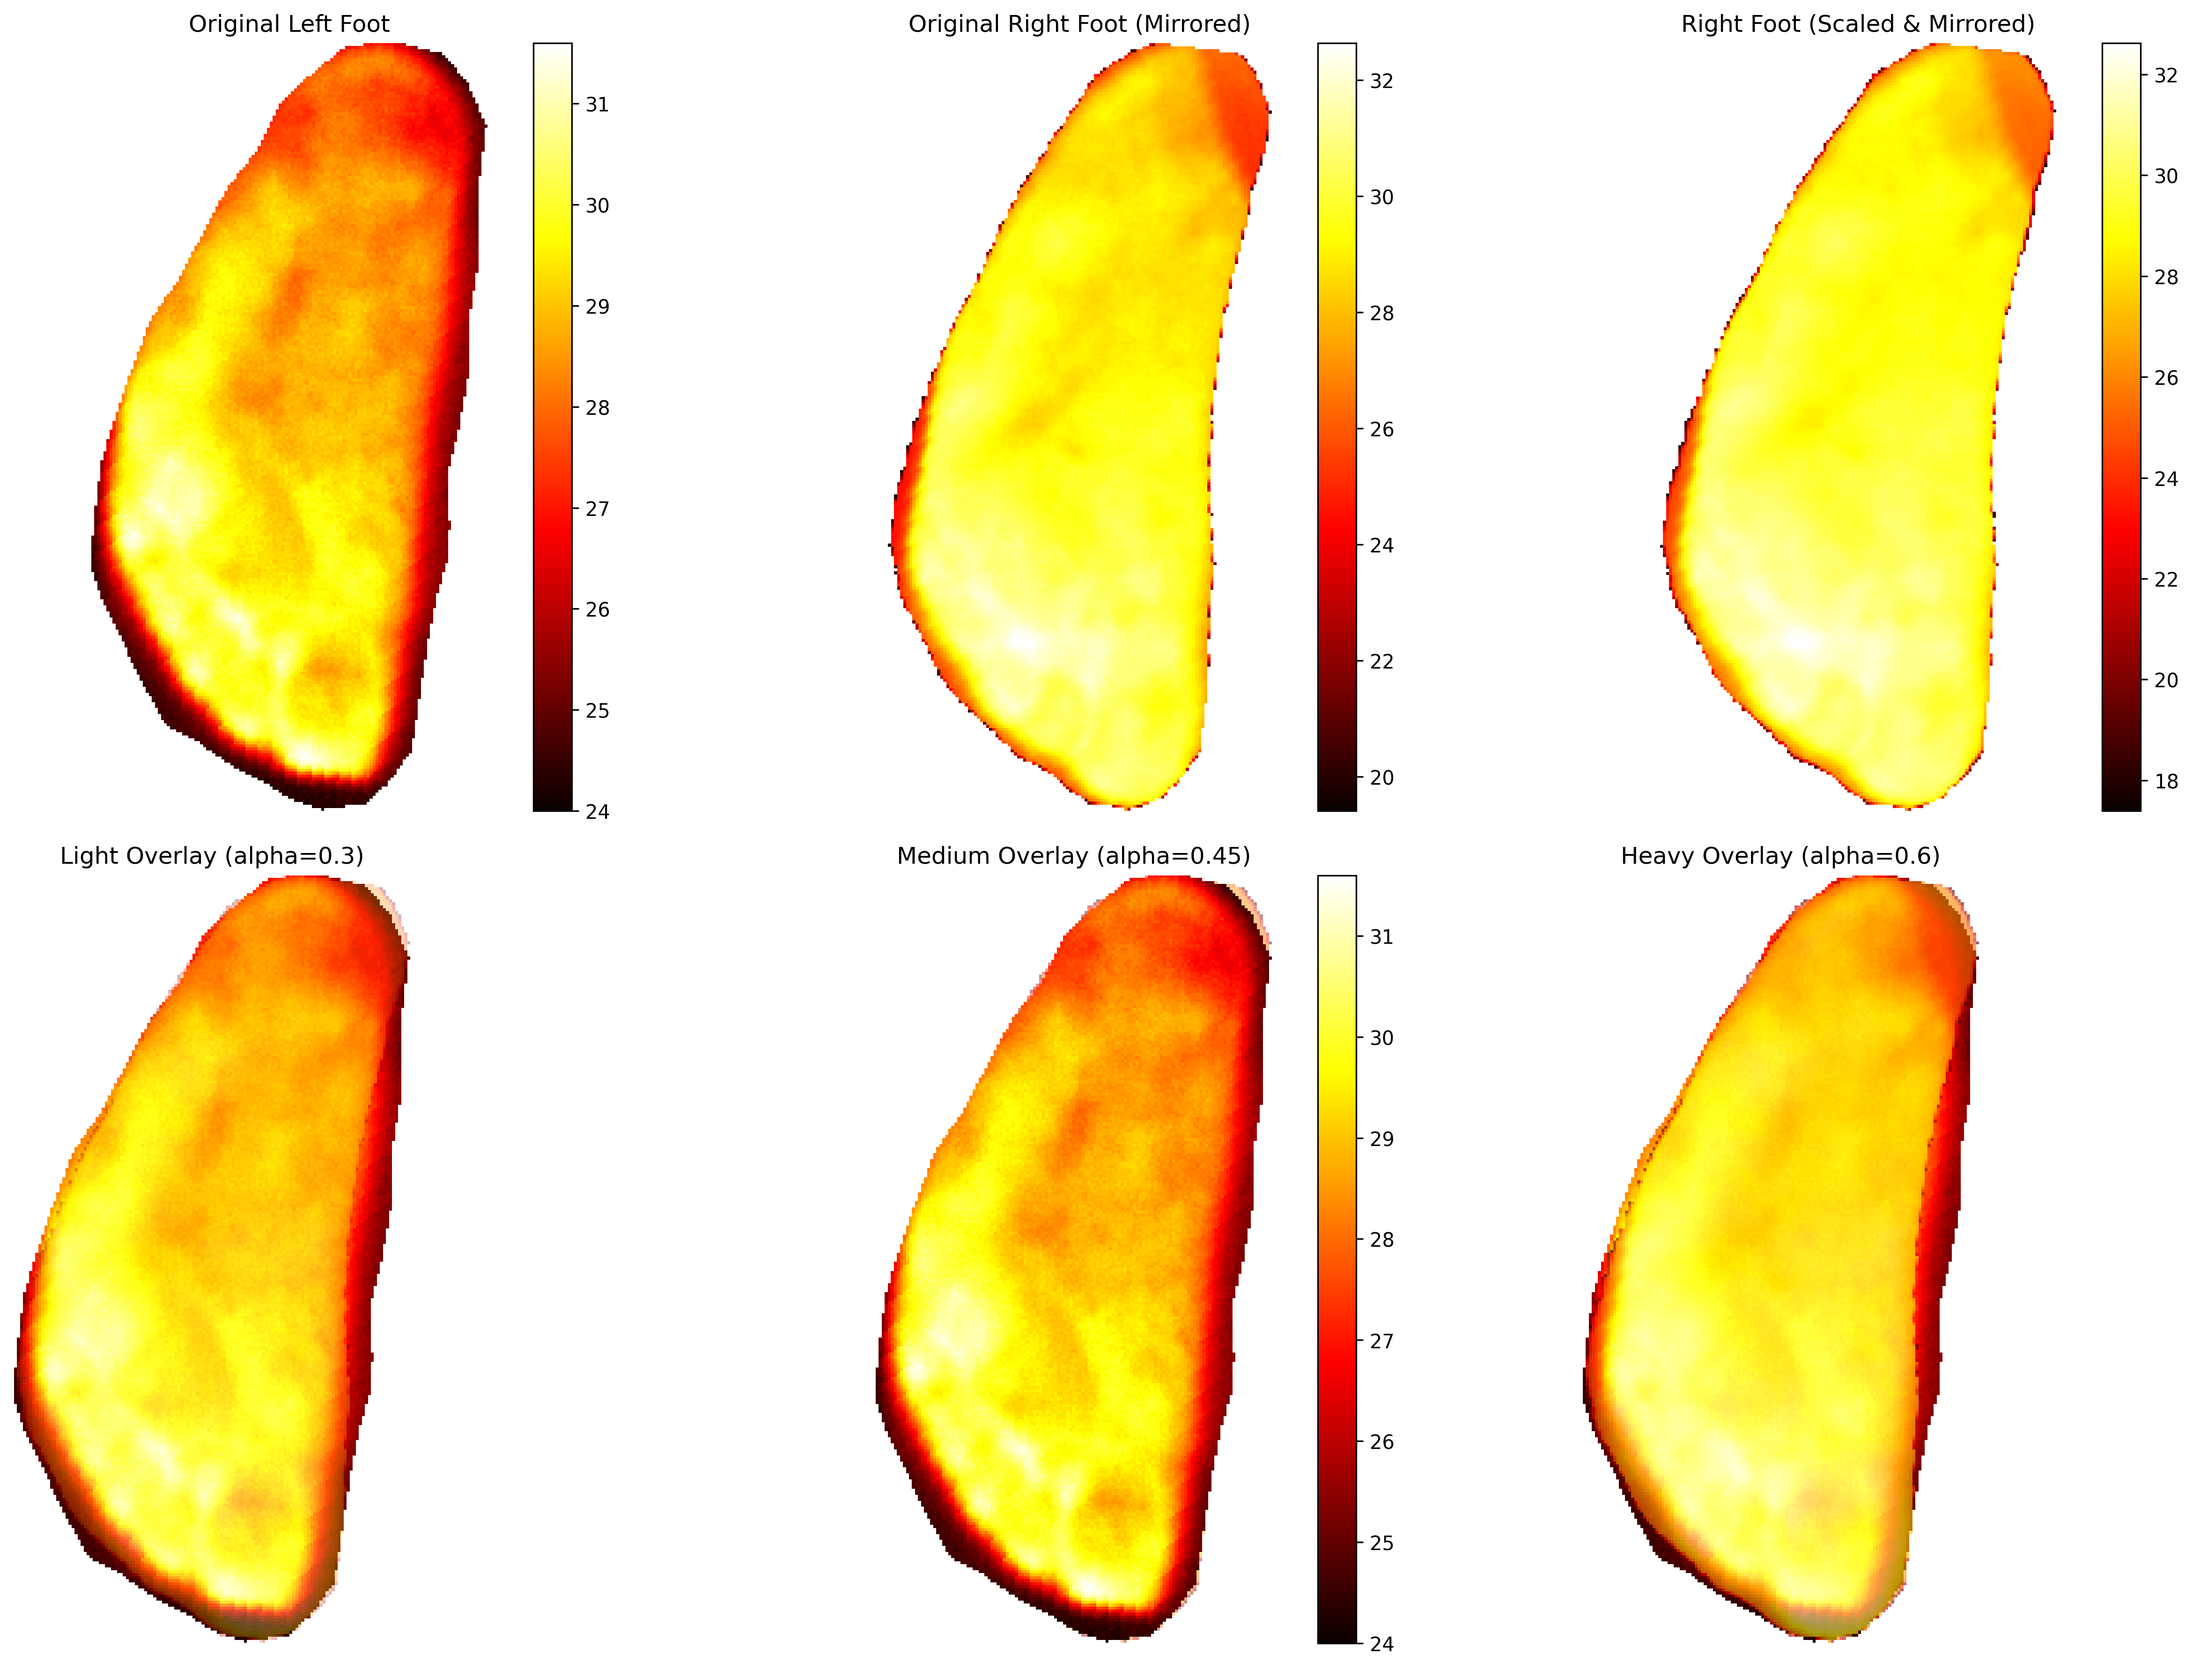
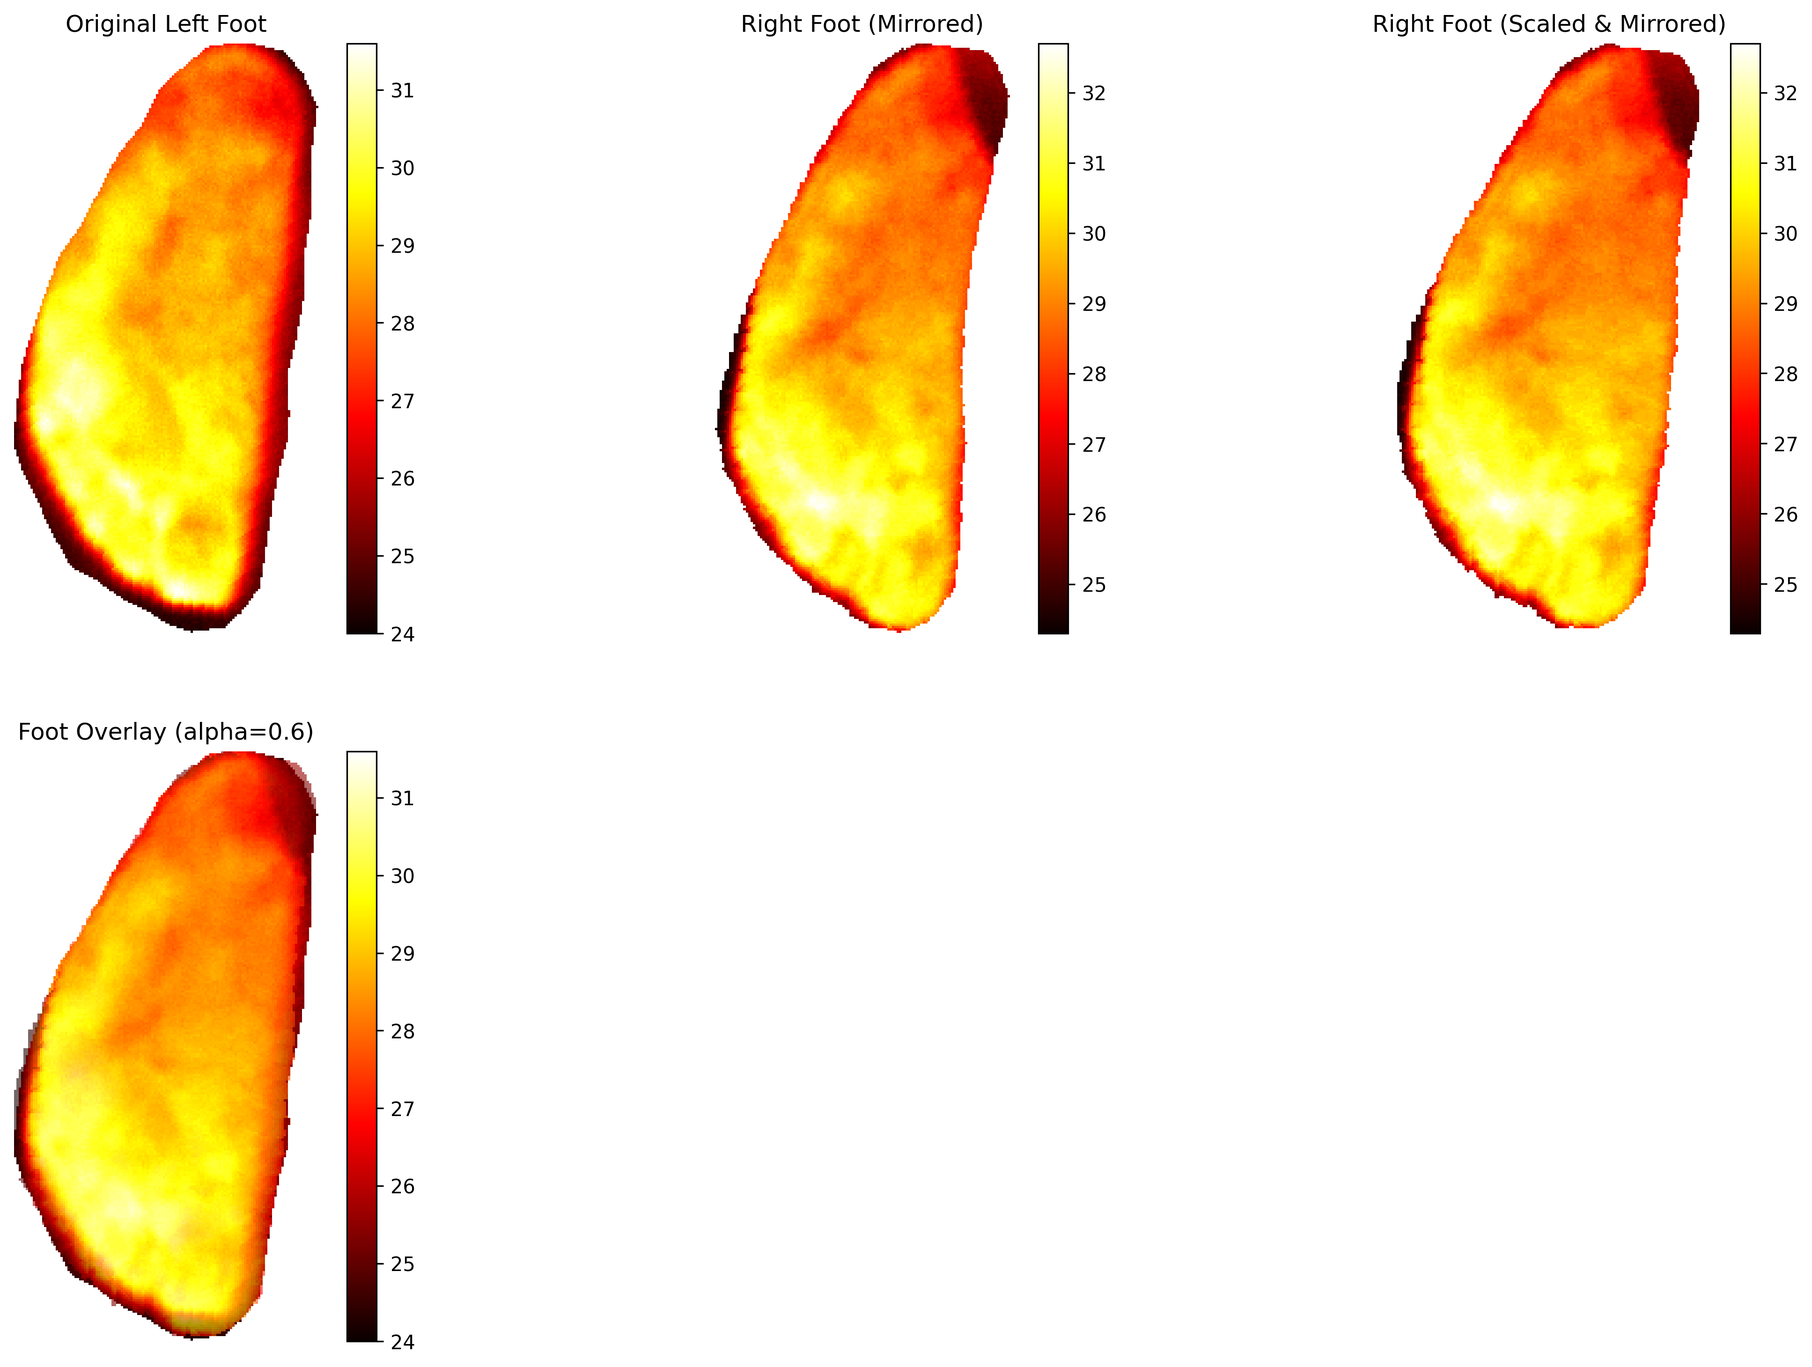
changed parameters of the pytorch temperature preservation and also updated requirements.txt

diff --git a/foot_overlay_creator_simplified2.py b/foot_overlay_creator_simplified2.py
@@ -17,7 +17,7 @@ AVAILABLE_MAT_FILES = {
     "pnt2": "Data/Temp Data/pnt_mat_files/pnt2.mat",
     "pnt3": "Data/Temp Data/pnt_mat_files/pnt3.mat",
 }
-SELECTED_FILE = "gz2"
+SELECTED_FILE = "gz3"
 MAT_FILE = AVAILABLE_MAT_FILES[SELECTED_FILE]
 OUTPUT_DIR = "output_overlay_system"
 CMAP = "hot"
@@ -157,6 +157,14 @@ def create_foot_overlay():
     img_right_scaled = scale_image(img_right_mir, scale_x, scale_y) if img_right_mir.shape != img_left.shape else img_right_mir
 
     if ENABLE_WARP_OPTIMIZATION:
+        print("Starting improved warp optimization with temperature preservation...")
+        
+        # Store original temperature data for preservation
+        original_temps = img_right_scaled[~np.isnan(img_right_scaled)]
+        original_temp_mean = np.mean(original_temps)
+        original_temp_std = np.std(original_temps)
+        print(f"Original temperature stats: mean={original_temp_mean:.2f}°C, std={original_temp_std:.2f}°C")
+        
         # Masks
         mask_left = create_binary_mask(img_left)
         mask_right = create_binary_mask(img_right_scaled)
@@ -176,21 +184,26 @@ def create_foot_overlay():
 
         identity_grid = create_grid(*img_left.shape)
 
-        # Coarse displacement
-        coarse_h, coarse_w = 4, 4
+        # More conservative displacement parameters
+        coarse_h, coarse_w = 3, 3  # Reduced from 4x4 to 3x3 for less aggressive warping
         displ_coarse = torch.nn.Parameter(torch.zeros(1, coarse_h, coarse_w, 2, device=device))
 
-        optimizer = torch.optim.Adam([displ_coarse], lr=0.05)
-        num_iters = 300
+        # More conservative optimization parameters
+        optimizer = torch.optim.Adam([displ_coarse], lr=0.02)  # Reduced learning rate from 0.05
+        num_iters = 150  # Reduced iterations from 300
+
+        best_iou = 0
+        best_displacement = None
 
         for iter in range(num_iters):
             optimizer.zero_grad()
 
+            # More conservative displacement scaling
             displ_full = torch.nn.functional.interpolate(
-                displ_coarse.permute(0, 3, 1, 2), size=img_left.shape, mode='bicubic', align_corners=False
+                displ_coarse.permute(0, 3, 1, 2), size=img_left.shape, mode='bilinear', align_corners=False
             ).permute(0, 2, 3, 1)
 
-            grid = identity_grid + displ_full * 0.2
+            grid = identity_grid + displ_full * 0.1  # Reduced from 0.2 to 0.1 for gentler warping
 
             warped = torch.nn.functional.grid_sample(
                 mask_right_t.unsqueeze(0).unsqueeze(0), grid, mode='bilinear', padding_mode='zeros', align_corners=False
@@ -199,34 +212,48 @@ def create_foot_overlay():
             inter = torch.sum(warped * mask_left_t)
             union = torch.sum(warped + mask_left_t - warped * mask_left_t) + 1e-6
             iou = inter / union
-            loss = -iou
+            
+            # Add regularization to prevent extreme deformations
+            displacement_magnitude = torch.mean(torch.sum(displ_full ** 2, dim=-1))
+            smoothness_loss = torch.mean(torch.abs(displ_full[:, 1:, :, :] - displ_full[:, :-1, :, :])) + \
+                             torch.mean(torch.abs(displ_full[:, :, 1:, :] - displ_full[:, :, :-1, :]))
+            
+            loss = -iou + 0.1 * displacement_magnitude + 0.05 * smoothness_loss
 
             loss.backward()
             optimizer.step()
+            
+            # Track best solution
+            if iou.item() > best_iou:
+                best_iou = iou.item()
+                best_displacement = displ_full.clone().detach()
 
-            if iter % 50 == 0:
-                print(f"Iter {iter}: IOU {iou.item():.4f}")
+            if iter % 30 == 0:  # Reduced logging frequency
+                print(f"Iter {iter}: IOU {iou.item():.4f}, Displacement {displacement_magnitude.item():.4f}")
 
-        # Final warp for image
-        displ_full = torch.nn.functional.interpolate(
-            displ_coarse.permute(0, 3, 1, 2), size=img_left.shape, mode='bicubic', align_corners=False
-        ).permute(0, 2, 3, 1)
-        grid = identity_grid + displ_full * 0.2
+        # Use best displacement for final warping
+        grid = identity_grid + best_displacement * 0.1
 
-        img_right_t = torch.from_numpy(img_right_scaled).float().to(device)  # Convert to float32
-        fill_value = -100.0
+        # Apply warping to temperature data with better preservation
+        img_right_t = torch.from_numpy(img_right_scaled).float().to(device)
+        
+        # Create a more conservative fill value based on actual data
+        fill_value = float(np.nanmin(img_right_scaled)) - 5.0 if not np.isnan(np.nanmin(img_right_scaled)) else 15.0
+        
         img_right_filled = torch.where(
             torch.isnan(img_right_t), torch.tensor(fill_value, dtype=torch.float32, device=device), img_right_t
         )
         valid_mask_t = (~torch.isnan(img_right_t)).float().to(device)
 
+        # Use nearest neighbor to preserve exact temperature values
         warped_temp = torch.nn.functional.grid_sample(
             img_right_filled.unsqueeze(0).unsqueeze(0),
             grid,
-            mode='nearest',
-            padding_mode='zeros',
+            mode='nearest',  # Keep nearest neighbor for temperature preservation
+            padding_mode='border',  # Use border padding instead of zeros
             align_corners=False
         ).squeeze()
+        
         warped_valid = torch.nn.functional.grid_sample(
             valid_mask_t.unsqueeze(0).unsqueeze(0),
             grid,
@@ -236,11 +263,25 @@ def create_foot_overlay():
         ).squeeze()
 
         img_right_scaled = torch.where(
-        warped_valid > 0.5, warped_temp, torch.tensor(np.nan, dtype=torch.float32, device=device)
-        ).detach().cpu().numpy()  # Add .detach() before .cpu().numpy()
+            warped_valid > 0.5, warped_temp, torch.tensor(np.nan, dtype=torch.float32, device=device)
+        ).detach().cpu().numpy()
+
+        # Validate temperature preservation
+        final_temps = img_right_scaled[~np.isnan(img_right_scaled)]
+        if len(final_temps) > 0:
+            final_temp_mean = np.mean(final_temps)
+            final_temp_std = np.std(final_temps)
+            temp_drift = abs(final_temp_mean - original_temp_mean)
+            print(f"Final temperature stats: mean={final_temp_mean:.2f}°C, std={final_temp_std:.2f}°C")
+            print(f"Temperature drift: {temp_drift:.2f}°C")
+            
+            if temp_drift > 1.0:  # If temperature drifted too much, warn user
+                print("⚠  Warning: Significant temperature drift detected after warping")
 
         # Update overlap score
         overlap_score = calculate_overlap_score(create_binary_mask(img_left), create_binary_mask(img_right_scaled))
+        print(f"Final overlap score: {overlap_score:.4f}")
+        print("Warp optimization completed with improved temperature preservation.")
     left_canvas, right_canvas = pad_to_same_size(img_left, img_right_scaled)
     
     # Visualizations
